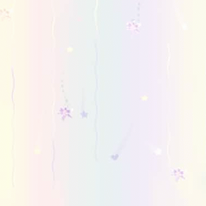
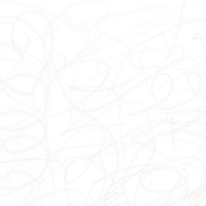
update

diff --git a/_layouts/contacts.html b/_layouts/contacts.html
@@ -18,18 +18,25 @@ layout: default
     <div class="span12 hs_make_path hs_left">
       <h1 class="lined">  Свяжи тесь с нами    </h1>
     </div>
+
     <div class="span12 hs_make_detail hs_left">
-      <div class="span4">
-        <div class="span2"> <img src="images/phone_icon.png" alt="Phone"/> </div>
-        <div class="span8"> {{ page.phones }} </div>
+      <div class="span12">
+        <div class="span1"> <img src="images/phone_icon.png" alt="Phone"/> </div>
+        <div class="span6">
+          {% for phone in page.phones %}
+            <div class="span5"> {{ phone }} </div>
+          {% endfor %}
+        </div>
+        <div class="span5">
+          {{ page.address }}
+        </div>
       </div>
-      <div class="span4">
+    </div>
+
+    <div class="span12 hs_make_detail hs_left">
+      <div class="span6">
         <div class="span2 hs_box"> <img src="images/box_icon.png" alt="email"/> </div>
         <div class="span8"> <div style="height: 14px"></div> <a href="mailto:{{ page.email }}">{{ page.email }}</a> </div>
-      </div>
-      <div class="span4">
-        <div class="span2"> <img src="images/creative.png" alt="address"/> </div>
-        <div class="span8"> {{ page.address }} </div>
       </div>
     </div>
   </div>

diff --git a/_layouts/design.html b/_layouts/design.html
@@ -22,6 +22,7 @@ layout: page
           {{ item.name }}
           {% if forloop.index != 1 %}
           <sup style="border: 1px solid #000; border-radius: 50%; padding: 0 3px; font-size: 10px">?</sup>
+          <br>грн
           {% endif %}
         </a>
 
@@ -68,6 +69,7 @@ layout: page
           {{ item.name }}
           {% if forloop.index != 1 %}
           <sup style="border: 1px solid #000; border-radius: 50%; padding: 0 3px; font-size: 10px">?</sup>
+          <br>грн
           {% endif %}
         </a>
 

diff --git a/css/bootstrap.css b/css/bootstrap.css
@@ -172,7 +172,7 @@ body {
 	font-size: 19px;
 	line-height: 26px;
 	color: #000;
-	background: url(../images/bg.jpg) ;
+	background: url(../images/bg_pattern.png) ;
 }
 a {
 	color: #000;
@@ -3902,10 +3902,11 @@ to {
 	color: #000;
 	text-align: center;
 	text-decoration: none;
-	background-color: #f55;
+	background-color: #fff;
 	-webkit-border-radius: 4px;
 	-moz-border-radius: 4px;
 	border-radius: 4px;
+	border: 1px solid #000;
 }
 .tooltip-arrow {
 	position: absolute;

diff --git a/css/style.css b/css/style.css
@@ -1935,7 +1935,16 @@ h1 {
 .main-wrap {
 	width: 960px;
 	margin: 0 auto;
-	background: #fff;
 	padding: 40px 10px 0 40px;
 	box-shadow: 0 0 20px #ccc;
+}
+
+.page-content {
+	margin: 0 20px 0 -10px;
+}
+
+small.help {
+	display: block;
+	line-height: 16px;
+	font-size: 12px;
 }

diff --git a/contacts.md b/contacts.md
@@ -1,10 +1,10 @@
 ---
 layout: contacts
 title: Наши контакты
+description: Вы можете найти нас в городе-герои напротив ЗАГСа, возле Нахимовской администрации
+keywords: полиграфия и рекламное агенство на ул. Горького 2, 
 
 email: poligraphiya@arttora.com     
-phones: 099-387-34-24 <br> 095-031-96-27 <br> 098-840-08-69 <br> 093-690-93-36
-address: г. Севастополь <br> ул. Горького, 2 <br> (напротив ЗАГСа, <br> возле Нахимовской администрации)
+phones: [099-387-34-24, 095-031-96-27, 098-840-08-69, 093-690-93-36]
+address: г. Севастополь  ул. Горького, 2 <br> <small class="help">напротив ЗАГСа, возле Нахимовской администрации</small>
 ---
-
-

diff --git a/index.md b/index.md
@@ -50,12 +50,11 @@ clients:
 slides_in_header: true
 
 slides:
-  - image: images/slide5.jpg
-    description: Image description
-
   - image: images/slide4.jpg
     description: Image description
 
+  - image: images/slide5.jpg
+    description: Image description
 
   - image: images/slide2.jpg
     description: Image description
